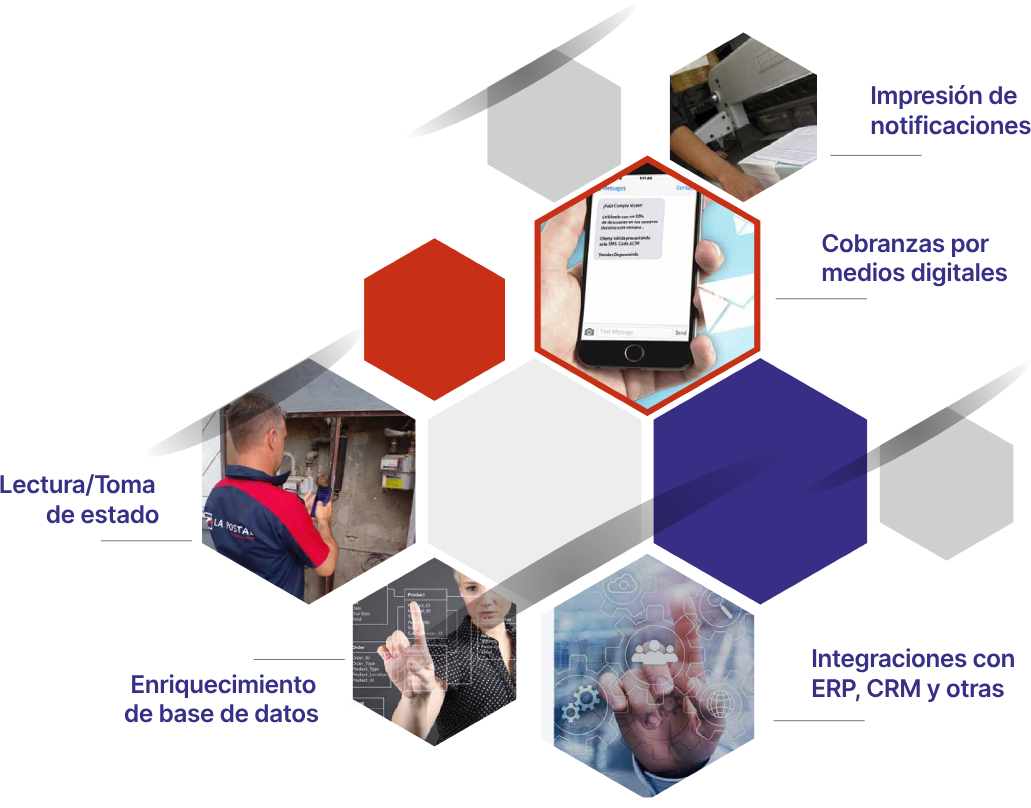
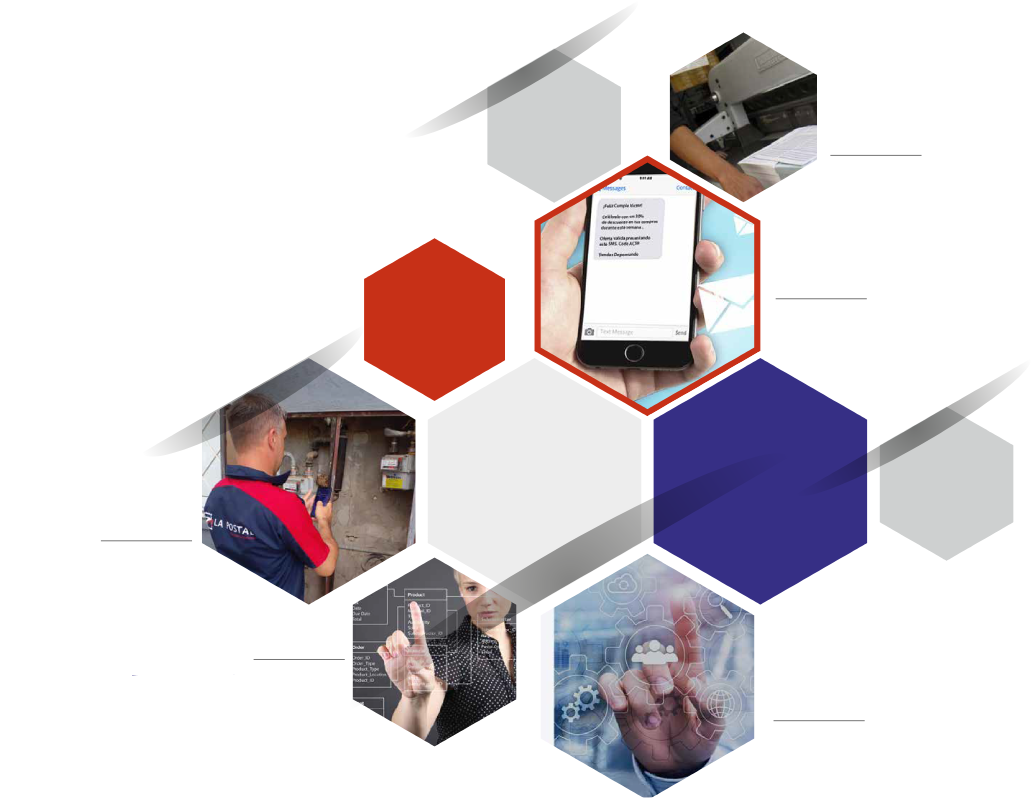
servicios

diff --git a/css/style.css b/css/style.css
@@ -360,6 +360,8 @@ main.hero button {
   padding-top: 4rem;
   padding-bottom: 4rem;
   position: relative;
+  overflow-x: clip;
+  overflow-y: visible;
 }
 #section-integracion .hexagono-1, #section-integracion .hexagono-2 {
   width: 27%;
@@ -380,7 +382,7 @@ main.hero button {
   position: relative;
   z-index: 3;
 }
-#section-integracion h4 {
+#section-integracion .title {
   font-size: 3rem;
   font-weight: bold;
   font-family: "inter-medium";
@@ -531,6 +533,145 @@ main.hero button {
     padding-bottom: 2rem;
     padding-left: 1.8rem;
     padding-right: 1.8rem;
+  }
+}
+#section-servicios {
+  margin-top: 5%;
+  margin-bottom: 5%;
+  padding: 0px 15%;
+  position: relative;
+}
+#section-servicios h5 {
+  font-size: 3rem;
+  color: #363085;
+  font-weight: bold;
+  position: absolute;
+  left: 15%;
+  width: 50%;
+  top: 5%;
+}
+#section-servicios h5 span {
+  color: #D42916;
+}
+#section-servicios img {
+  max-width: 100%;
+  display: block;
+  width: 100%;
+}
+#section-servicios .texto-1, #section-servicios .texto-2, #section-servicios .texto-3, #section-servicios .texto-4, #section-servicios .texto-5 {
+  color: #363085;
+  font-size: 1.563rem;
+  line-height: 1.563rem;
+  font-weight: bold;
+  position: absolute;
+}
+#section-servicios .texto-1 {
+  top: 12%;
+  right: 20%;
+}
+#section-servicios .texto-2 {
+  top: 30%;
+  right: 22%;
+}
+#section-servicios .texto-3 {
+  top: 60%;
+  left: 15%;
+}
+#section-servicios .texto-4 {
+  top: 84%;
+  left: 20%;
+}
+#section-servicios .texto-5 {
+  top: 81%;
+  right: 22%;
+}
+
+@media (max-width: 767px) {
+  #section-servicios {
+    padding: 0px 0%;
+    overflow-x: clip;
+    overflow-y: visible;
+    margin-top: 200px;
+  }
+  #section-servicios h5 {
+    position: absolute;
+    top: -100px;
+  }
+  #section-servicios .texto-1, #section-servicios .texto-2, #section-servicios .texto-3, #section-servicios .texto-4, #section-servicios .texto-5 {
+    font-size: 1.563rem;
+    line-height: 1.563rem;
+    letter-spacing: -0.5px;
+  }
+}
+@media (min-width: 300px) and (max-width: 400px) {
+  #section-servicios .texto-1 {
+    top: 8%;
+    right: 2%;
+  }
+  #section-servicios .texto-2 {
+    top: 25%;
+    right: 3%;
+  }
+  #section-servicios .texto-3 {
+    top: 56%;
+    left: 1%;
+  }
+  #section-servicios .texto-4 {
+    top: 86%;
+    left: 5%;
+  }
+  #section-servicios .texto-5 {
+    top: 77%;
+    right: 2%;
+  }
+}
+@media (min-width: 400px) and (max-width: 500px) {
+  #section-servicios .texto-1 {
+    top: 9%;
+    right: 3%;
+  }
+  #section-servicios .texto-2 {
+    top: 28%;
+    right: 5%;
+  }
+  #section-servicios .texto-3 {
+    top: 56%;
+    left: 2%;
+  }
+  #section-servicios .texto-4 {
+    top: 86%;
+    left: 5%;
+  }
+  #section-servicios .texto-5 {
+    top: 78%;
+    right: 2%;
+  }
+}
+@media (min-width: 500px) and (max-width: 767px) {
+  #section-servicios .texto-1, #section-servicios .texto-2, #section-servicios .texto-3, #section-servicios .texto-4, #section-servicios .texto-5 {
+    font-size: 1.875rem;
+    line-height: 1.875rem;
+    letter-spacing: -0.3px;
+  }
+  #section-servicios .texto-1 {
+    top: 11%;
+    right: 4%;
+  }
+  #section-servicios .texto-2 {
+    top: 30%;
+    right: 6%;
+  }
+  #section-servicios .texto-3 {
+    top: 58%;
+    left: 2%;
+  }
+  #section-servicios .texto-4 {
+    top: 85%;
+    left: 8%;
+  }
+  #section-servicios .texto-5 {
+    top: 80%;
+    right: 5%;
   }
 }
 

diff --git a/scss/section-servicios.scss b/scss/section-servicios.scss
@@ -1,0 +1,144 @@
+#section-servicios{
+    margin-top: 5%;
+    margin-bottom: 5%;
+    padding: 0px 15%;
+    position: relative;
+    h5{
+        font-size: $title-size-2;
+        color: $color-azul;
+        font-weight: bold;
+        position: absolute;
+        left:15%;
+        width: 50%;
+        top:5%;
+        span{
+            color: $color-rojo;
+        }
+    }
+    img{
+        max-width: 100%;
+        display: block;
+        width: 100%;
+    }
+    .texto-1,.texto-2,.texto-3,.texto-4,.texto-5{
+        color:$color-azul;
+        font-size: $text-size-2;
+        line-height: $text-size-2;
+        font-weight: bold;
+        position: absolute;
+    }
+    .texto-1{
+        top: 12%;
+        right:(20%);
+    }
+    .texto-2{
+        top: 30%;
+        right: 22%;
+    }
+    .texto-3{
+        top: 60%;
+        left:15%;
+    }
+    .texto-4{
+        top: 84%;
+        left:20%;
+    }
+    .texto-5{
+        top: 81%;
+        right:22%;
+    }
+}
+@media (max-width:767px){
+    #section-servicios{
+        padding: 0px 0%;
+        overflow-x: clip;
+        overflow-y: visible;
+        margin-top: 200px;
+        h5{
+            position: absolute;
+            top: -100px;
+        }
+        .texto-1,.texto-2,.texto-3,.texto-4,.texto-5{
+            font-size: $text-size-2;
+            line-height: $text-size-2;
+            letter-spacing: -0.5px;
+        }
+    }
+}
+@media (min-width:300px) and (max-width:400px){
+    #section-servicios{
+        .texto-1{
+            top: 8%;
+            right:(2%);
+        }
+        .texto-2{
+            top: 25%;
+            right: 3%;
+        }
+        .texto-3{
+            top: 56%;
+            left:1%;
+        }
+        .texto-4{
+            top: 86%;
+            left:5%;
+        }
+        .texto-5{
+            top: 77%;
+            right:2%;
+        }
+    }
+}
+@media (min-width:400px) and (max-width:500px){
+    #section-servicios{
+        .texto-1{
+            top: 9%;
+            right:3%;
+        }
+        .texto-2{
+            top: 28%;
+            right: 5%;
+        }
+        .texto-3{
+            top: 56%;
+            left:2%;
+        }
+        .texto-4{
+            top: 86%;
+            left:5%;
+        }
+        .texto-5{
+            top: 78%;
+            right:2%;
+        }
+    }
+}
+@media (min-width:500px) and (max-width:767px){
+    #section-servicios{
+        .texto-1,.texto-2,.texto-3,.texto-4,.texto-5{
+            font-size: $text-size-1;
+            line-height: $text-size-1;
+            letter-spacing: -0.3px;
+        }
+        .texto-1{
+            top: 11%;
+            right:4%;
+        }
+        .texto-2{
+            top: 30%;
+            right: 6%;
+        }
+        .texto-3{
+            top: 58%;
+            left:2%;
+        }
+        .texto-4{
+            top: 85%;
+            left:8%;
+        }
+        .texto-5{
+            top: 80%;
+            right:5%;
+        }
+    }
+}

diff --git a/index.html b/index.html
@@ -106,14 +106,14 @@
         <div class="col-lg-6">
           <img src="img/integracion_principio_fin.png" alt="">
           <div class="columna-1">
-            <h4>¡De las lecturas de medición al pago!</h4>
+            <p class="title">¡De las lecturas de medición al pago!</p>
             <p>Hybrin unifica todos los procesos de facturación y cobranzas de empresas de servicios. Desde la lectura de medidores de consumo hasta el pago.</p>
             <span>01.</span>
           </div>
         </div>
         <div class="col-lg-6">
           <div class="columna-2">
-            <h4>Integración de principio a fin</h4>
+            <p class="title">Integración de principio a fin</p>
             <p>Gestione múltiples canales de comunicación (sms, whatsapp,e-mail, Comunicación física) en una única Plataforma.</p>
           </div>
           <img src="img/lectura de medicion.png" alt="">
@@ -159,6 +159,18 @@
           <span>04.</span>
         </div>
       </div>
+    </section>
+    <section id="section-servicios">
+      <h5>Servicios<br>
+        complementarios<br>
+        <span>de HybriN</span>
+      </h5>
+      <p class="texto-1">Impresión de<br>notificaciones</p>
+      <p class="texto-2">Cobranzas por<br>medios digitales</p>
+      <p class="texto-3">Lectura/Toma<br>de estado</p>
+      <p class="texto-4">Enriquecimiento<br>de base de datos</p>
+      <p class="texto-5">Integraciones con<br>ERP, CRM y otras</p>
+      <img src="img/servicios_bg.jpg" alt="">
     </section>
 </body>
 </html>

diff --git a/scss/section-integracion.scss b/scss/section-integracion.scss
@@ -5,6 +5,8 @@
     padding-top: 4rem;
     padding-bottom: 4rem;
     position: relative;
+    overflow-x: clip;
+    overflow-y: visible;
     .hexagono-1,.hexagono-2{
         width: 27%;
         position: absolute;
@@ -25,7 +27,7 @@
         position: relative;
         z-index: 3;
     }
-    h4{
+    .title{
         font-size: $title-size-2;
         font-weight: bold;
         font-family: "inter-medium";

diff --git a/scss/import.scss b/scss/import.scss
@@ -1,1 +1,1 @@
-@import "general","header","hero","section-digitalizacion","section-desafio","section-sola-plataforma","section-omnicanalidad","section-integracion","section-integra","footer";
+@import "general","header","hero","section-digitalizacion","section-desafio","section-sola-plataforma","section-omnicanalidad","section-integracion","section-integra","section-servicios","footer";
